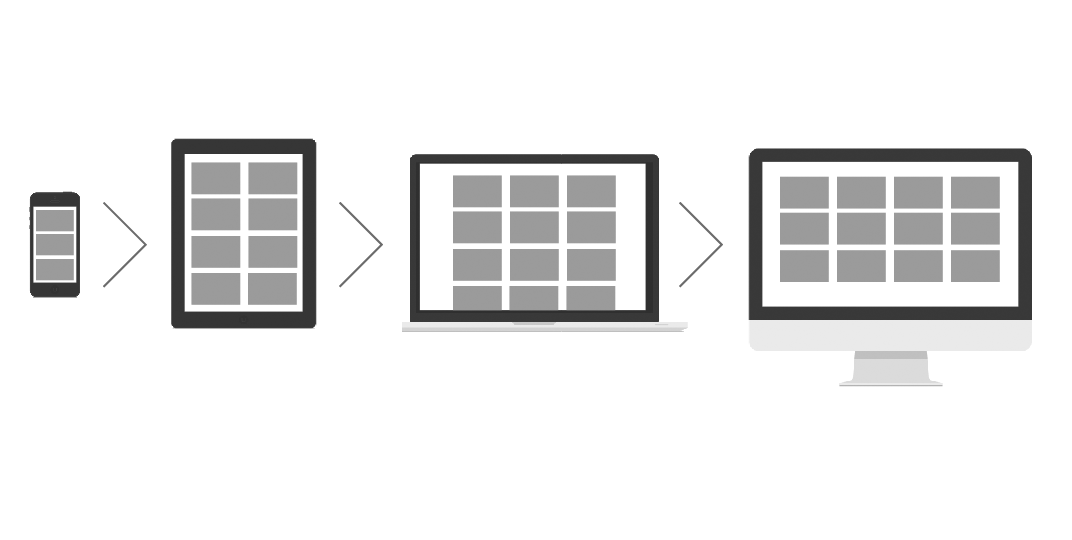
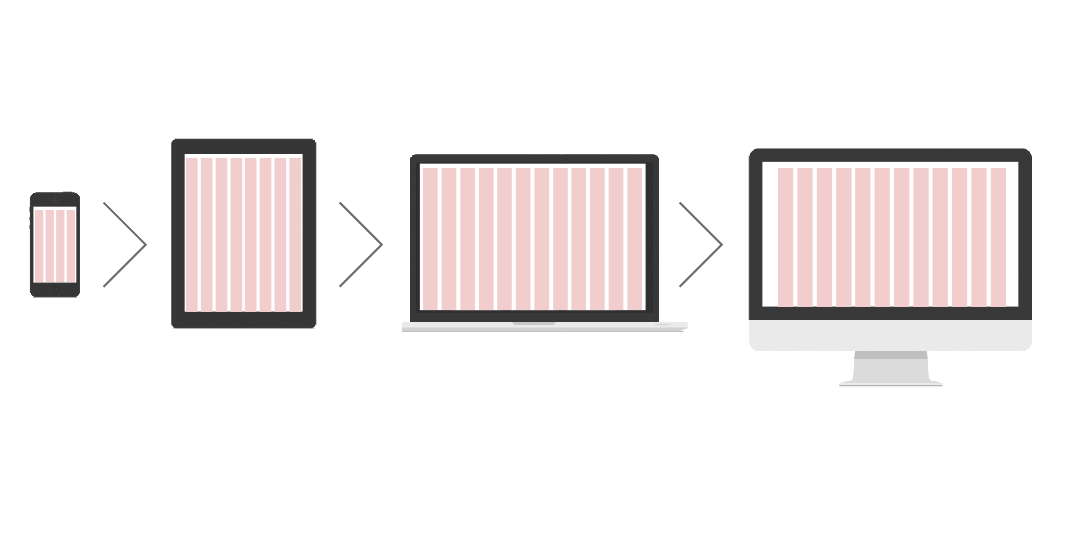
Typo

diff --git a/tipografia.html b/tipografia.html
@@ -62,7 +62,7 @@
               <article class="article"> 
                 <div class="row">
                   <div class="col-12 col-sm-4"><br>
-                    <h1 class="article-title">En las webs La importancia de la tipografía por que define al gerarquia visual y la interficie de us <strong>bold,  </strong>regular.</h1>
+                    <h1 class="article-title">En las páginas web la tipografía tiene un valor capital. <strong>Facilita la lectura de los contenidos y también la navegación de los usuarios.</strong><br><br>Es importante que quede muy clara la <strong>diferencia entre el texto de intrefice — menus, mifas de pant, firmas... — y el texto de contenido.  </strong></h1>
                   </div>
                   <div class="col-12 col-sm-8">
                     <div class="slider">
@@ -89,7 +89,7 @@
               <article class="article"> 
                 <div class="row">
                   <div class="col-12 col-sm-4"><br>
-                    <h1 class="article-title"><strong>Gerarquia tipográfica, </strong></h1>
+                    <h1 class="article-title"><strong>Gerarquia tipográfica es la relación entre los diferentes elementos tipográficos de la página.</strong><br><br>La lectura por pantalla es más anárquica y superficial que la de papel, hay que tenerlo en cuenta en el momento de establecer las gerarquias para poder ofrecer al usuario 3 niveles de lectura: <strong>el superficial, el de lectura diagonal y en profundidad.</strong></h1>
                   </div>
                   <div class="col-12 col-sm-8">
                     <div class="slider">
@@ -121,7 +121,7 @@
               <article class="article"> 
                 <div class="row">
                   <div class="col-12 col-sm-4"><br>
-                    <h1 class="article-title">Crear un ritmo vertical a traves de la tipografía<strong>bold, </strong>regular.<br>html body line eight</h1>
+                    <h1 class="article-title">Con las relaciones tipográficas <strong>guiamos a los usuarios </strong>por la página, y condionamos sus acciones.</h1>
                   </div>
                   <div class="col-12 col-sm-8">
                     <figure><img src="public/images/shyp.jpg" class="img-responsive">
@@ -143,7 +143,14 @@
                     </figure>
                   </div>
                   <div class="col-12 col-sm-4"><br>
-                    <h1 class="article-title">Modulación escala tipografica responsive<strong>bold, </strong><br></h1>
+                    <h1 class="article-title">La definición de una <strong>escala tipográfica </strong>ayuda a tener acotado el modo en que se visuaizará la tipografia en cada formato.</h1>
+                  </div>
+                </div>
+                <div class="row">
+                  <div class="col-12 col-sm-8">
+                    <figure><img src="public/images/system-normas-typo.png" class="img-responsive">
+                      <figcaption class="text-left">Escala tipográfica Airbnb - Fuente: airbnb.design</figcaption>
+                    </figure>
                   </div>
                 </div>
               </article>
@@ -153,10 +160,13 @@
             <div class="container">
               <article class="article">
                 <div class="row"> 
-                  <div class="col-12">
+                  <div class="col-12 col-sm-8">
                     <figure><img src="public/images/escala-tipografica.png" class="img-responsive">
-                      <figcaption class="text-left"><strong>www.modularscale.com </strong>es un recurso online para generar escalas tipográficas.</figcaption>
+                      <figcaption class="text-left"><strong>type-scale.com</strong></figcaption>
                     </figure>
+                  </div>
+                  <div class="col-12 col-sm-4"><br>
+                    <p>Existen recursos como <strong>Type Scale </strong>que ayudan a generar escalas tipográficas resposive, y que permiten copiar los estilos CSS resultantes.</p>
                   </div>
                 </div>
               </article>
@@ -165,7 +175,7 @@
           <footer class="page-footer">
             <ul class="footer-nav">
               <li class="prev"><a href="diseno-grafico.html"><-- Diseño gráfico</a></li>
-              <li class="next"><a href="body.html">Grid --> </a></li>
+              <li class="next"><a href="grid.html">Grid --> </a></li>
             </ul>
           </footer>
         </main>

diff --git a/grid.html b/grid.html
@@ -62,7 +62,7 @@
               <article class="article">
                 <div class="row">
                   <div class="col-12 col-sm-4"><br>
-                    <h1 class="article-title"><strong>La rejilla o "grid" </strong>podemos considerarla como un sistema dentro de nuestro sistema web, y realiza la función de un esqueleto, no resulta visible a simple vista, pero <strong>mantiene los elementos del sistema ordenados y alineados.</strong><br><br>Una rejilla bien aplicada traslada una sensación harmónica a los usurios.</h1>
+                    <h1 class="article-title"><strong>La rejilla o "grid" </strong>podemos considerarla como un sistema dentro de nuestro sistema we. Realiza la función de un esqueleto: no resulta visible a simple vista, pero <strong>mantiene los elementos del sistema ordenados y alineados.</strong><br><br>Una rejilla bien aplicada traslada una sensación harmónica a los usurios.</h1>
                   </div>
                   <div class="col-12 col-sm-8">
                     <figure><img src="public/images/the-grid-system.png" class="img-responsive">
@@ -72,7 +72,7 @@
                 </div>
                 <div class="row">
                   <div class="col-12 col-sm-4"><br>
-                    <h1 class="article-title"><strong>La unidad minima de un sistema de rejilla es la columna.</strong><br>En diseño web se acostumbra trabajar con <strong>12 columnas </strong>por ser múltiple de 4 (móvil) y de 8 (tablet).</h1>
+                    <h1 class="article-title"><strong>La unidad minima de un sistema de rejilla es la columna.</strong><br><br>En diseño web se acostumbra trabajar con <strong>12 columnas </strong>por ser múltiple de 4 (móvil) y de 8 (tablet).</h1>
                   </div>
                   <div class="col-12 col-sm-8">
                     <figure><img src="public/images/12-grid.png" class="img-responsive">
@@ -86,7 +86,7 @@
                   </div>
                   <div class="col-12 col-sm-8">
                     <figure><img src="public/images/bootstrap-grid.png" class="img-responsive">
-                      <figcaption class="text-left">Esquema gerarquia tipográfica.</figcaption>
+                      <figcaption class="text-left">Esquema de columnado en función del formato.</figcaption>
                     </figure>
                   </div>
                 </div>
@@ -99,7 +99,7 @@
               <article class="article"> 
                 <div class="row">
                   <div class="col-12 col-sm-4"><br>
-                    <h1 class="article-title"><strong>Rejilla base o "baseline"</strong>, es un conjunto de líneas horizontales imaginarias que ayudan a la acomodación de los elementos en las páginas. <br><br>El uso de las rejillas base marca una ordenación visual respecto al eje vertival de la página. </h1>
+                    <h1 class="article-title"><strong>Rejilla base o "baseline"</strong>, es un conjunto de líneas horizontales imaginarias que ayudan a la acomodación de los elementos en las páginas. <br><br>El uso de las rejillas base marca la <strong>ordenación visual respecto al eje vertival de la página. </strong></h1>
                   </div>
                   <div class="col-12 col-sm-8">
                     <div class="slider">
@@ -214,7 +214,7 @@
                     </div>
                   </div>
                   <div class="col-12 col-sm-4"><br>
-                    <h1 class="article-title"><strong>La proporción aurea es un recurso geométrico </strong><br>que ayuda a encontar el <strong>foco de atención y el equilibrio</strong><br>en el diseño.</h1>
+                    <h1 class="article-title"><strong>La proporción aurea es un recurso geométrico </strong><br>que ayuda a encontar el <strong>foco de atención y el equilibrio </strong><br>en el diseño.</h1>
                   </div>
                 </div>
               </article>
